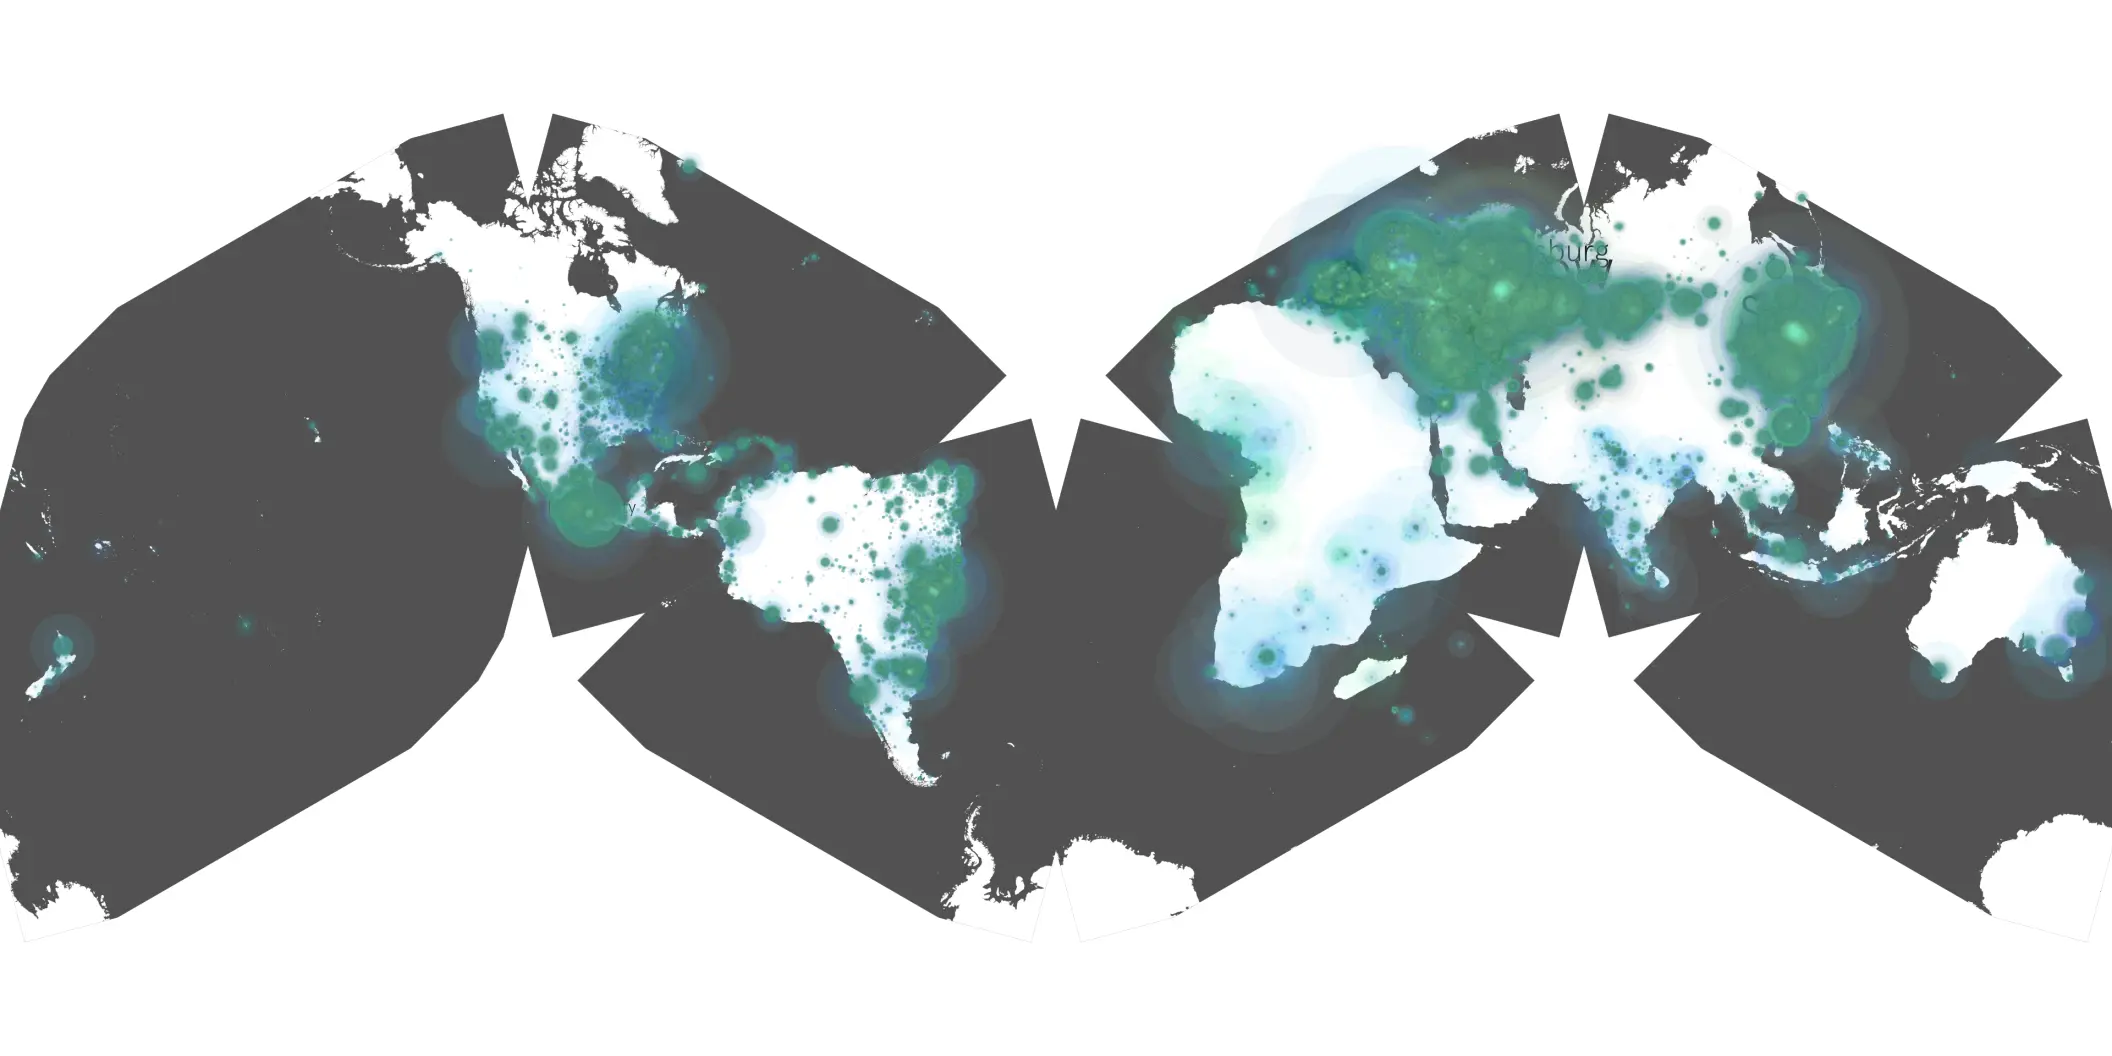
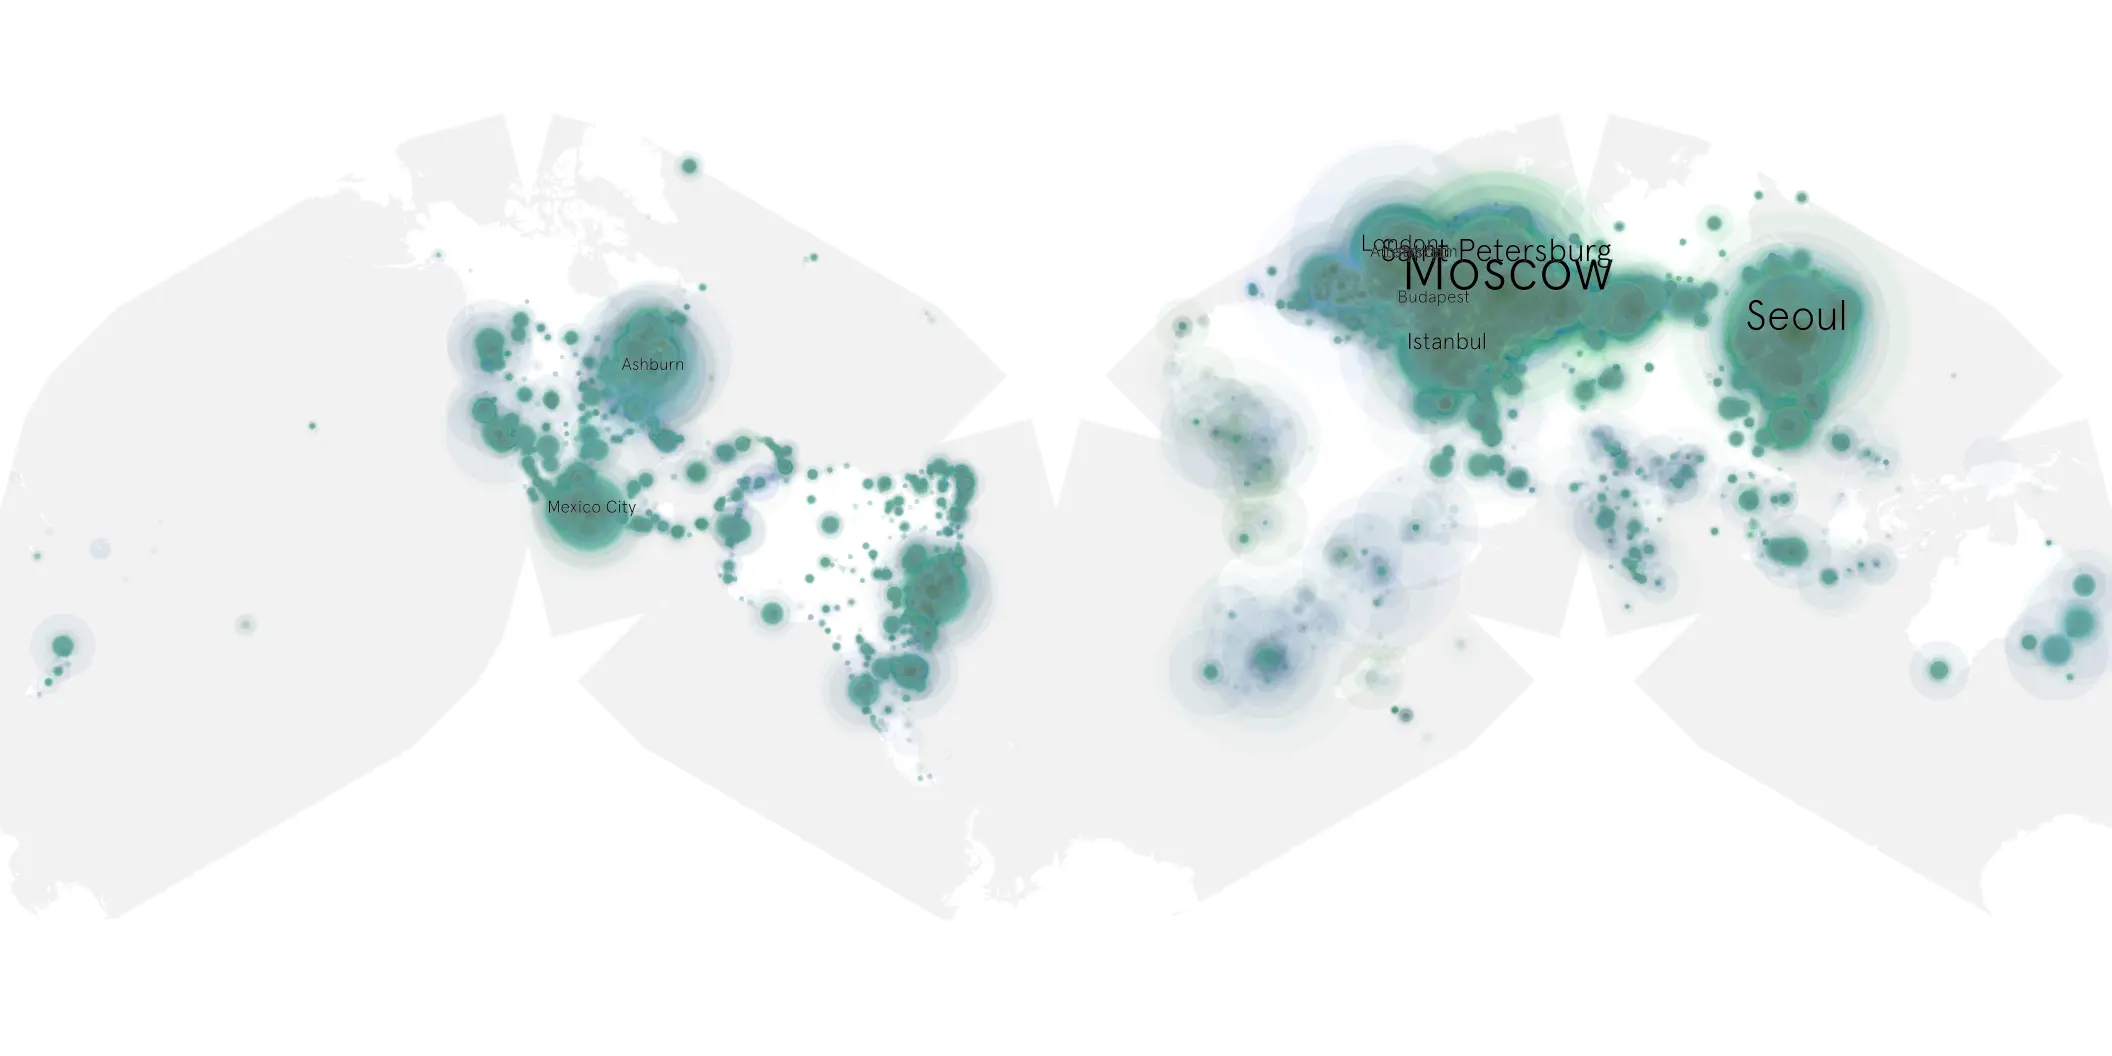
Apply baseline v2 to american-fiction

diff --git a/docs/itemized/american-fiction-sample-cache-audit.md b/docs/itemized/american-fiction-sample-cache-audit.md
@@ -14,9 +14,9 @@ description: "Cache coverage and visualization audit for one media object."
 | Media object | American Fiction |
 | Collection key | `american-fiction` |
 | imdb_id | [tt23561236](https://www.imdb.com/title/tt23561236/) |
-| wikipedia_url | UNAVAILABLE |
+| wikipedia_url | [American Fiction (film)](https://en.wikipedia.org/wiki/American_Fiction_(film)) |
 | Sample dates | 2024-02-06-to-2024-05-20 |
-| Sample days | 105 (2024–2024) |
+| Sample days | 105 |
 | BTIH count | 151 |
 | Unique BTIH count | 129 |
 | Downloaders total | 12,378,175 |
@@ -24,7 +24,7 @@ description: "Cache coverage and visualization audit for one media object."
 | Data version | `2026-08-05` |
 | IP geolocation version | `6:1777968300` |
 
-## 2. Cache coverage report
+## 2. Sample coverage report
 
 - Generated: 2026-08-28T16:48:38Z
 - Sample archive directory: `/run/media/bkoz/gold/src/alpha60-samples-raw.gold/american-fiction.xz`
@@ -40,7 +40,7 @@ description: "Cache coverage and visualization audit for one media object."
 - hourly gap: last `2024-04-20 06:00`, resumed `2024-04-22 00:00` — missing 41 hour(s)
 - missing day: `2024-04-21`
 
-## 3. Collection size histogram
+## 3. Media objects file size histogram
 
 ![American Fiction collection size histogram](figures/american-fiction-cumulative-detail-btiha-itemized-by-bytes.svg)
 
@@ -48,7 +48,20 @@ description: "Cache coverage and visualization audit for one media object."
 
 ### Downloads by week cumulative (normalized start)
 
-![american-fiction downloads by week](figures/american-fiction-downloads-by-week-american-fiction-week.svg)
+<script type="text/javascript" crossorigin="anonymous" id="graph-hover"
+	src="../../resources/izzi-graph-hover-txt-polyline-red.js">
+</script>
+
+<div class="media-object-audit-week-graph" style="max-width: 100%;">
+{% include_relative figures/american-fiction-downloads-by-week-american-fiction-week.svg %}
+</div>
+<style>
+.media-object-audit-week-graph svg {
+  display: block;
+  width: 100%;
+  height: auto;
+}
+</style>
 
 ### Downloads by day, Saturday and Sunday in gray
 
@@ -56,7 +69,7 @@ description: "Cache coverage and visualization audit for one media object."
 
 ## 5. Visualization pass — maps
 
-### Continental downloader slices
+### Cumulative geographic slices
 
 | Africa | Americas | Asia | Europe | Oceania | Unknown |
 | --- | --- | --- | --- | --- | --- |
@@ -70,8 +83,8 @@ description: "Cache coverage and visualization audit for one media object."
 
 **Cumulative >= 1080p**
 
-![Cumulative >= 1080p](figures/american-fiction-data-ge-1080p.webp)
+[![Cumulative >= 1080p](figures/american-fiction-data-ge-1080p.webp)](figures/american-fiction-data-ge-1080p-4k.webp){:target="_blank" rel="noopener"}
 
 **Cumulative < 1080p**
 
-![Cumulative < 1080p](figures/american-fiction-data-lt-1080p.webp)
+[![Cumulative < 1080p](figures/american-fiction-data-lt-1080p.webp)](figures/american-fiction-data-lt-1080p-4k.webp){:target="_blank" rel="noopener"}
